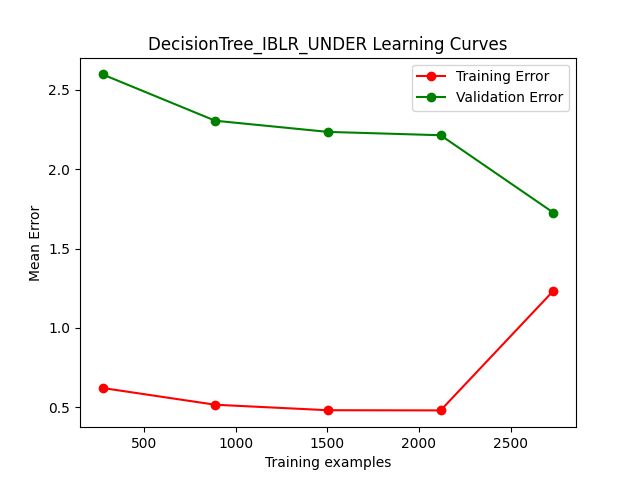
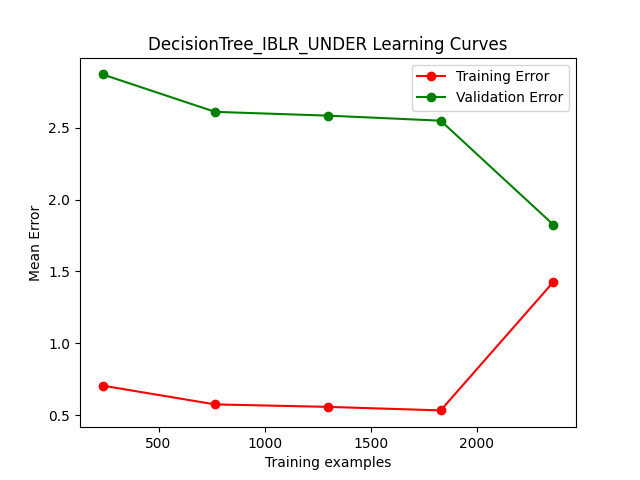
Aggiunto apprendimento supervisionato XGBRegressor

diff --git a/src/supervised_learning.py b/src/supervised_learning.py
@@ -81,8 +81,6 @@ def train_and_test_model(
         
         if suffix == '_IBLR_RO':
             df = iblr_ro
-        elif suffix == '_IBLR_GN':
-            df = iblr_gn
         elif suffix == '_IBLR_UNDER':
             df = iblr_under
         elif suffix == '_SMOGN':
@@ -170,19 +168,20 @@ DecisionTreeHyperparameters = {
 }
 
 RandomForestHyperparameters = {
-    'RandomForest__n_estimators': [100, 200],
+    'RandomForest__n_estimators': [100],
     'RandomForest__criterion': [
         'squared_error', 'absolute_error', 
         'friedman_mse', 'poisson'
     ],
     'RandomForest__max_depth': [None, 10, 20],
+    'RandomForest__n_jobs': [-1],
     # 'RandomForest__max_features': ['sqrt', 'log2'],
     'RandomForest__random_state': [seed]
 }
 
 LGBMRegressorHyperparameters = {
-    'LGBMRegressor__n_estimators': [50, 100, 200],
-    'LGBMRegressor__learning_rate': [0.01, 0.05, 0.1, 1.0],
+    'LGBMRegressor__n_estimators': [50, 100, 200, 500],
+    'LGBMRegressor__learning_rate': [0.01, 0.02, 0.05, 0.1, 1.0],
     'LGBMRegressor__max_depth': [10, 20, 40],
     # 'LGBMRegressor__num_leaves': [31, 127],
     'LGBMRegressor__class_weight': [None, 'balanced'],
@@ -214,8 +213,8 @@ smogn_data = smogn.smoter(
 )
 
 iblr_ro = iblr.ro(
-    data = df,
-    y = 'Log_Worldwide_Gross',
+    data=df,
+    y='Log_Worldwide_Gross',
     samp_method='extreme',
     # manual_perc=True,
     # perc_o=2.0,
@@ -228,8 +227,8 @@ iblr_under = iblr.random_under(
     samp_method='extreme',
     # drop_na_col=True,
     # drop_na_row=True,
-    # manual_perc=True,
-    # perc_u=0.6,
+    manual_perc=True,
+    perc_u=0.5,
     rel_thres=0.5
 )
 
@@ -238,7 +237,7 @@ pre_pipeline_oversampling = [
     # [],
     # [('SMOGN', None)],
     [('IBLR_RO', None)],
-    # [('IBLR_UNDER', None)],
+    [('IBLR_UNDER', None)],
     # [('RandomOverSamplerTransformer', ros_transformer), ('SMOTE', smote)],
 ]
 
